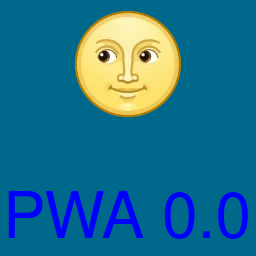
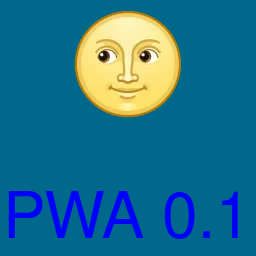
ver. 0.1

Changed region(s): [[0.8438, 0.75, 0.9688, 0.9375]]

diff --git a/app.html b/app.html
@@ -6,6 +6,6 @@
     <link rel="manifest" href="manifest.json" />
   </head>
   <body style="background: deepskyblue;">
-    <p>App page ver. 0.0</p>
+    <p>App page ver. 0.1</p>
   </body>
 </html>
